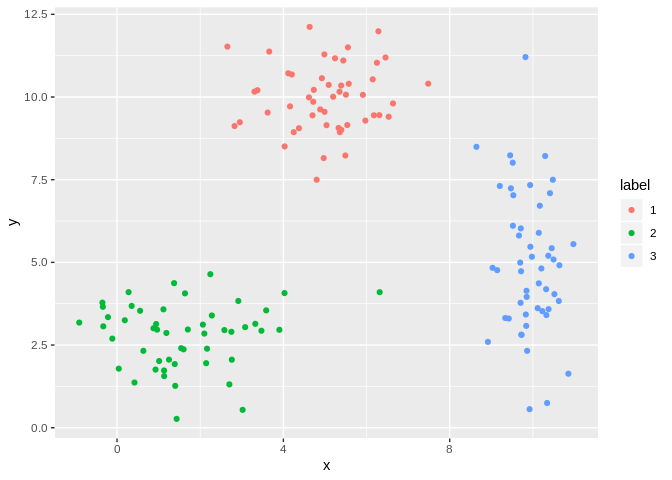
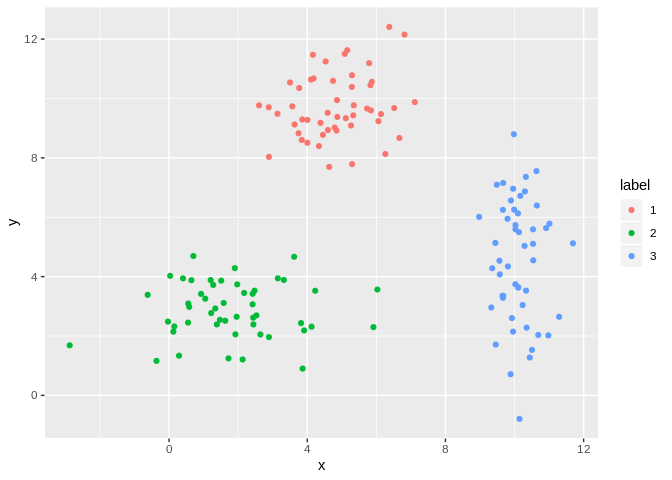
Add files via upload

diff --git a/projects/kmeans_intro/index.md b/projects/kmeans_intro/index.md
@@ -1,5 +1,5 @@
-**Pokemon Type Classifier**
-===========================
+**Introduction to K-Means Clustering**
+======================================
 
 <p style="text-align:center;">
 <em>Kenny Lov</em><br><br>
